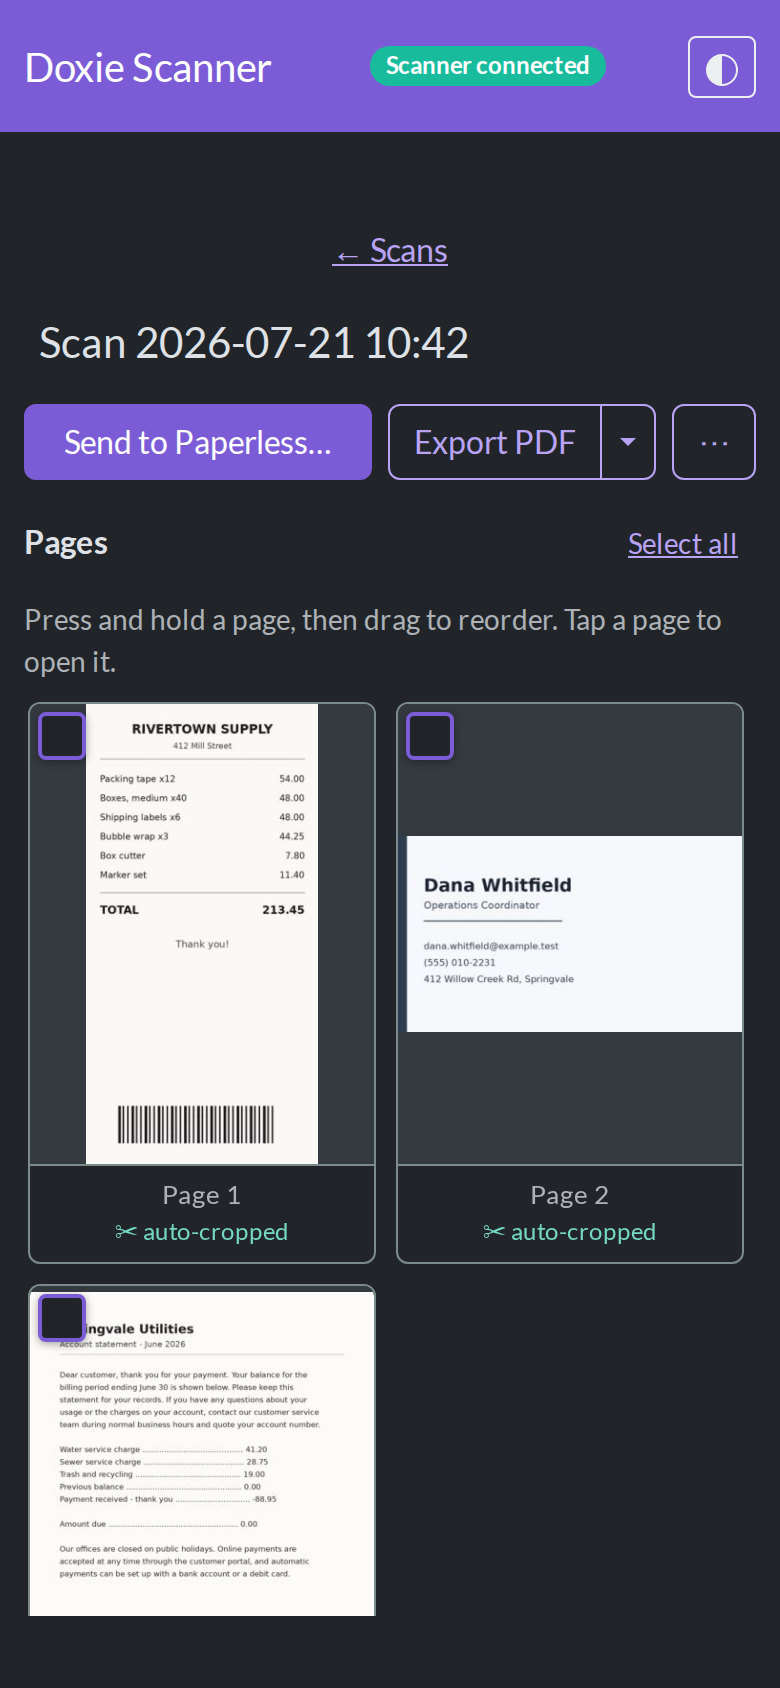
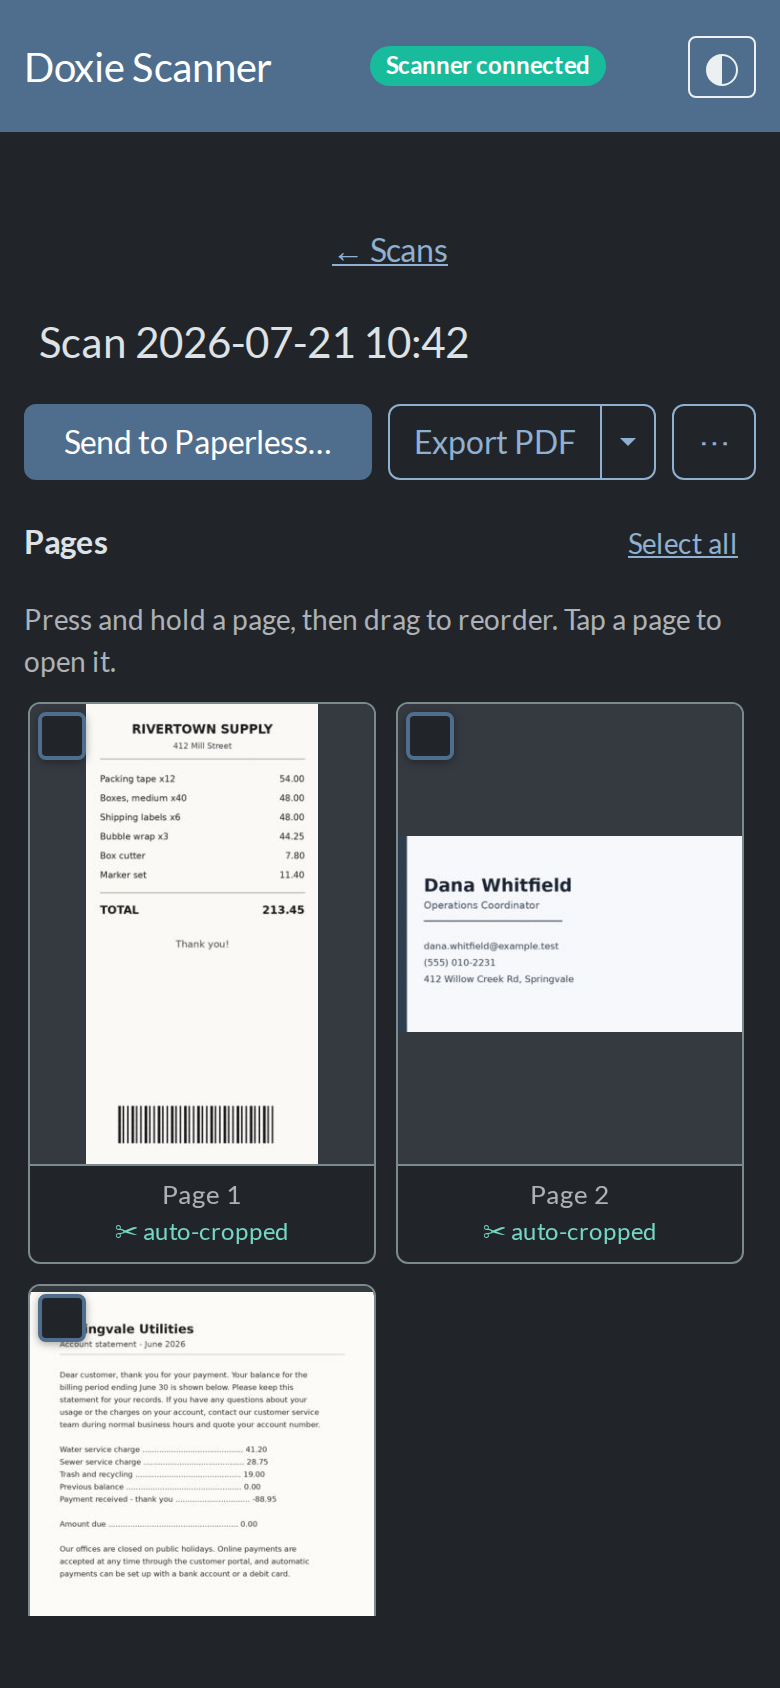
fix(doxie-scanner): drop the colour picker; stop the scan list flickering and highlighting
Two corrections to the interface changes from earlier today.

- Remove the colour schemes. Only Auto, Light and Dark were wanted, so the
  swatches, the four extra schemes and everything that referenced them (theme.js,
  the menu, the strings, the docs and the README screenshot) are gone. Dark mode
  keeps its own lighter accent, which it needs for contrast against the dark
  background; light mode is unchanged.
- Opening a scan flickered. selectJob bumped the image cache-buster on every
  open, so each thumbnail got a new address and was fetched and decoded again, and
  the whole list was rebuilt around the click. Now the highlight moves at once
  without rebuilding the list, and only reopening the scan that is already open
  (which means it was just changed) gets new addresses, so edits still show.
  Switching between scans reuses the browser's cached thumbnails. A click made
  while a slower earlier one is still loading is no longer overtaken by it.
- Remove the hover highlight on scan rows (Bootstrap's list-group default) and the
  tap flash on touch screens; the open scan keeps its highlight under the pointer.

Checked in Chrome: highlight timing, the list node surviving a click, identical
image addresses on revisit, new ones after a rotate, no colour change on hover,
rapid clicks, and the earlier flows, sort, export and page-delete scripts.

diff --git a/internal/web/static/style.css b/internal/web/static/style.css
@@ -629,54 +629,22 @@ body > main > .row > * {
   }
 }
 
-/* ---- Colour schemes ----
-   One accent colour drives the buttons, links, navbar, selection and switches.
-   "slate" is the original Flatly look; each scheme has a lighter accent for
-   dark mode, where a dark one would sink into the background. The mode itself
-   (light or dark) is Bootstrap's own data-bs-theme, set by theme.js. */
+/* ---- Accent colour ----
+   One accent drives the buttons, links, navbar, selection and switches. Light
+   mode keeps Flatly's slate; dark mode uses a lighter one, where the dark slate
+   would sink into the background. The mode itself (light or dark) is
+   Bootstrap's own data-bs-theme, set by theme.js. */
 :root,
-:root[data-scheme="slate"] {
+:root[data-bs-theme="light"] {
   --accent: #2c3e50; --accent-rgb: 44, 62, 80; --accent-hover: #253544; --accent-active: #233240;
   --accent-text: #2c3e50; --accent-text-rgb: 44, 62, 80;
 }
-:root[data-scheme="slate"][data-bs-theme="dark"] {
+:root[data-bs-theme="dark"] {
   --accent: #4f6d8c; --accent-rgb: 79, 109, 140; --accent-hover: #5b7a99; --accent-active: #46627f;
   --accent-text: #8fb0d1; --accent-text-rgb: 143, 176, 209;
 }
-:root[data-scheme="ocean"] {
-  --accent: #0b6fa4; --accent-rgb: 11, 111, 164; --accent-hover: #095f8d; --accent-active: #085378;
-  --accent-text: #0b6fa4; --accent-text-rgb: 11, 111, 164;
-}
-:root[data-scheme="ocean"][data-bs-theme="dark"] {
-  --accent: #2f7fb5; --accent-rgb: 47, 127, 181; --accent-hover: #3a8dc4; --accent-active: #286f9f;
-  --accent-text: #7fbde6; --accent-text-rgb: 127, 189, 230;
-}
-:root[data-scheme="forest"] {
-  --accent: #2e7d4f; --accent-rgb: 46, 125, 79; --accent-hover: #276b44; --accent-active: #225c3a;
-  --accent-text: #2e7d4f; --accent-text-rgb: 46, 125, 79;
-}
-:root[data-scheme="forest"][data-bs-theme="dark"] {
-  --accent: #3b8f5f; --accent-rgb: 59, 143, 95; --accent-hover: #46a06d; --accent-active: #33805a;
-  --accent-text: #7fcf9f; --accent-text-rgb: 127, 207, 159;
-}
-:root[data-scheme="violet"] {
-  --accent: #6f42c1; --accent-rgb: 111, 66, 193; --accent-hover: #5f38a5; --accent-active: #543192;
-  --accent-text: #6f42c1; --accent-text-rgb: 111, 66, 193;
-}
-:root[data-scheme="violet"][data-bs-theme="dark"] {
-  --accent: #7c5cd6; --accent-rgb: 124, 92, 214; --accent-hover: #8a6de0; --accent-active: #6d4fc4;
-  --accent-text: #b9a3f5; --accent-text-rgb: 185, 163, 245;
-}
-:root[data-scheme="rose"] {
-  --accent: #b83a62; --accent-rgb: 184, 58, 98; --accent-hover: #a03355; --accent-active: #8c2d4a;
-  --accent-text: #b83a62; --accent-text-rgb: 184, 58, 98;
-}
-:root[data-scheme="rose"][data-bs-theme="dark"] {
-  --accent: #c24d78; --accent-rgb: 194, 77, 120; --accent-hover: #d0608a; --accent-active: #ae4268;
-  --accent-text: #f19ab8; --accent-text-rgb: 241, 154, 184;
-}
 
-:root[data-scheme] {
+:root[data-bs-theme] {
   --bs-primary: var(--accent);
   --bs-primary-rgb: var(--accent-rgb);
   --bs-link-color: var(--accent-text);
@@ -728,29 +696,8 @@ body > main > .row > * {
 
 /* ---- Appearance menu ---- */
 .appearance-menu {
-  min-width: 16rem;
+  min-width: 15rem;
 }
-
-.swatch {
-  width: 1.75rem;
-  height: 1.75rem;
-  padding: 0;
-  border: 2px solid var(--bs-body-bg);
-  border-radius: 50%;
-  background: var(--sw);
-  cursor: pointer;
-}
-
-.swatch[aria-pressed="true"] {
-  outline: 2px solid var(--bs-body-color);
-  outline-offset: 2px;
-}
-
-.swatch[data-scheme="slate"] { --sw: #2c3e50; }
-.swatch[data-scheme="ocean"] { --sw: #0b6fa4; }
-.swatch[data-scheme="forest"] { --sw: #2e7d4f; }
-.swatch[data-scheme="violet"] { --sw: #6f42c1; }
-.swatch[data-scheme="rose"] { --sw: #b83a62; }
 
 /* ---- Search and date filter above the scan list ---- */
 .job-range {
@@ -812,4 +759,21 @@ body > main > .row > * {
 
 .confirm-items li:last-child {
   border-bottom: 0;
+}
+
+/* ---- Scan list: no hover highlight, no tap flash ----
+   The open scan is marked; other rows don't change colour under the pointer. */
+.list-group-item-action {
+  --bs-list-group-action-hover-bg: var(--bs-list-group-bg);
+  --bs-list-group-action-hover-color: var(--bs-list-group-color);
+  --bs-list-group-action-active-bg: var(--bs-list-group-bg);
+  --bs-list-group-action-active-color: var(--bs-list-group-color);
+  -webkit-tap-highlight-color: transparent;
+}
+
+.list-group-item-action.active {
+  --bs-list-group-action-hover-color: var(--bs-list-group-active-color);
+  --bs-list-group-action-hover-bg: var(--bs-list-group-active-bg);
+  --bs-list-group-action-active-color: var(--bs-list-group-active-color);
+  --bs-list-group-action-active-bg: var(--bs-list-group-active-bg);
 }

diff --git a/internal/web/static/app.js b/internal/web/static/app.js
@@ -374,6 +374,7 @@
       const isActive = job.id === state.selectedJobId;
       const item = document.createElement('button');
       item.type = 'button';
+      item.dataset.jobId = job.id;
       item.className = 'list-group-item list-group-item-action d-flex justify-content-between align-items-start';
       if (isActive) {
         item.classList.add('active');
@@ -420,6 +421,7 @@
     const isOpen = job.id === state.selectedJobId;
     const row = document.createElement('div');
     row.className = `list-group-item bulk-row${isOpen ? ' active' : ''}`;
+    row.dataset.jobId = job.id;
     const selectable = bulkSelectable(job);
     if (!selectable) row.title = I18N.t('bulk.runningTitle');
     const thumbs = Array.from({ length: Math.min(3, job.pageCount || 0) }, (_, i) =>
@@ -550,12 +552,34 @@
     if (state.bulkSelected.size === 0) setBulkMode(false);
   }
 
+  // Moves the highlight to a scan in the list without rebuilding the list, so
+  // it responds the instant a scan is clicked and nothing in the list flashes.
+  function markActive(jobId) {
+    document.querySelectorAll('#job-list [data-job-id]').forEach((node) => {
+      const on = node.dataset.jobId === jobId;
+      node.classList.toggle('active', on);
+      if (on) node.setAttribute('aria-current', 'true');
+      else node.removeAttribute('aria-current');
+      const meta = node.querySelector('.job-meta');
+      if (meta) meta.classList.toggle('text-muted', !on);
+    });
+  }
+
   async function selectJob(jobId) {
+    // Opening the scan that is already open means it was just changed (rotated,
+    // cropped, reordered...): give its images new URLs so none is served from
+    // the browser's cache. Switching to another scan keeps the same URLs, so
+    // thumbnails already seen come straight from the cache instead of reloading.
+    const changed = jobId === state.selectedJobId && !!state.selectedJob;
+    if (changed) state.renderNonce++;
     state.selectedJobId = jobId;
-    state.renderNonce++;
+    markActive(jobId);
     const res = await api(`/api/scans/${jobId}`);
-    state.selectedJob = await res.json();
-    renderJobList();
+    const job = await res.json();
+    // A later click may have moved on while this was loading: don't undo it.
+    if (state.selectedJobId !== jobId) return;
+    state.selectedJob = job;
+    if (changed) renderJobList();
     renderJobDetail();
     watchSent(jobId);
     // On a phone the scan opens in place of the list: start at its top.
@@ -1714,28 +1738,16 @@
     return div.innerHTML;
   }
 
-  // ---- Appearance (mode and colour scheme; see theme.js) ----
+  // ---- Appearance (light, dark or follow the system; see theme.js) ----
 
   function syncAppearance() {
     const theme = window.DoxieTheme;
     document.querySelectorAll('input[name="theme-mode"]').forEach((r) => { r.checked = r.value === theme.mode; });
-    document.querySelectorAll('.swatch').forEach((b) => {
-      const label = I18N.t(`appearance.scheme.${b.dataset.scheme}`);
-      b.title = label;
-      b.setAttribute('aria-label', label);
-      b.setAttribute('aria-pressed', String(b.dataset.scheme === theme.scheme));
-    });
   }
 
   document.querySelectorAll('input[name="theme-mode"]').forEach((r) => {
     r.addEventListener('change', () => {
       window.DoxieTheme.setMode(r.value);
-      syncAppearance();
-    });
-  });
-  document.querySelectorAll('.swatch').forEach((b) => {
-    b.addEventListener('click', () => {
-      window.DoxieTheme.setScheme(b.dataset.scheme);
       syncAppearance();
     });
   });

diff --git a/internal/web/static/index.html b/internal/web/static/index.html
@@ -20,21 +20,13 @@
         </button>
         <div class="dropdown-menu dropdown-menu-end p-3 appearance-menu">
           <div class="small text-body-secondary mb-1" data-i18n="appearance.mode">Mode</div>
-          <div class="btn-group w-100 mb-3" role="group" aria-label="Mode">
+          <div class="btn-group w-100" role="group" aria-label="Mode">
             <input type="radio" class="btn-check" name="theme-mode" id="mode-auto" value="auto" autocomplete="off">
             <label class="btn btn-sm btn-outline-secondary" for="mode-auto" data-i18n="appearance.auto">Auto</label>
             <input type="radio" class="btn-check" name="theme-mode" id="mode-light" value="light" autocomplete="off">
             <label class="btn btn-sm btn-outline-secondary" for="mode-light" data-i18n="appearance.light">Light</label>
             <input type="radio" class="btn-check" name="theme-mode" id="mode-dark" value="dark" autocomplete="off">
             <label class="btn btn-sm btn-outline-secondary" for="mode-dark" data-i18n="appearance.dark">Dark</label>
-          </div>
-          <div class="small text-body-secondary mb-1" data-i18n="appearance.colors">Colors</div>
-          <div id="scheme-swatches" class="d-flex gap-2" role="group" aria-label="Colors">
-            <button type="button" class="swatch" data-scheme="slate"></button>
-            <button type="button" class="swatch" data-scheme="ocean"></button>
-            <button type="button" class="swatch" data-scheme="forest"></button>
-            <button type="button" class="swatch" data-scheme="violet"></button>
-            <button type="button" class="swatch" data-scheme="rose"></button>
           </div>
           <div class="small text-body-secondary mt-3 mb-1" data-i18n="appearance.language">Language</div>
           <select id="lang-switcher" class="form-select form-select-sm" aria-label="Language">

diff --git a/internal/web/static/theme.js b/internal/web/static/theme.js
@@ -1,12 +1,8 @@
-// Colour mode and colour scheme. Loaded in <head>, before the page paints, so
-// the saved choice is in place at first paint and there is no flash of the
-// wrong theme. The UI that changes them lives in app.js.
-//
-// Mode:   auto (follow the system's light/dark setting), light, or dark.
-// Scheme: the accent colour (slate is the original look); see style.css.
+// Colour mode: auto (follow the system), light or dark. Loaded in <head>,
+// before the page paints, so the saved choice is in place at first paint and
+// there is no flash of the wrong theme. The UI that changes it lives in app.js.
 (() => {
   const MODES = ['auto', 'light', 'dark'];
-  const SCHEMES = ['slate', 'ocean', 'forest', 'violet', 'rose'];
   const root = document.documentElement;
   const system = window.matchMedia('(prefers-color-scheme: dark)');
 
@@ -26,12 +22,10 @@
   };
 
   let mode = read('doxie-mode', MODES, 'auto');
-  let scheme = read('doxie-scheme', SCHEMES, 'slate');
 
   function apply() {
     const dark = mode === 'dark' || (mode === 'auto' && system.matches);
     root.setAttribute('data-bs-theme', dark ? 'dark' : 'light');
-    root.setAttribute('data-scheme', scheme);
   }
 
   // In auto mode, follow the system as it changes (a sunset schedule, say).
@@ -42,19 +36,11 @@
 
   window.DoxieTheme = {
     MODES,
-    SCHEMES,
     get mode() { return mode; },
-    get scheme() { return scheme; },
     setMode(m) {
       if (!MODES.includes(m)) return;
       mode = m;
       write('doxie-mode', m);
-      apply();
-    },
-    setScheme(s) {
-      if (!SCHEMES.includes(s)) return;
-      scheme = s;
-      write('doxie-scheme', s);
       apply();
     },
   };

diff --git a/demo/screenshots.spec.js b/demo/screenshots.spec.js
@@ -60,11 +60,10 @@ test('phone', async ({ page }, info) => {
   await imagesLoaded(page);
   await shot(page, 'pages-phone');
 
-  // The same view in dark mode with another colour scheme (then back to the
-  // default look for the rest).
-  await page.evaluate(() => { window.DoxieTheme.setMode('dark'); window.DoxieTheme.setScheme('violet'); });
+  // The same view in dark mode (then back to light for the rest).
+  await page.evaluate(() => window.DoxieTheme.setMode('dark'));
   await shot(page, 'dark-phone');
-  await page.evaluate(() => { window.DoxieTheme.setMode('light'); window.DoxieTheme.setScheme('slate'); });
+  await page.evaluate(() => window.DoxieTheme.setMode('light'));
 
   await page.locator('#page-grid .page-thumbnail').nth(0).locator('.combine-check').tap();
   await page.locator('#page-grid .page-thumbnail').nth(1).locator('.combine-check').tap();

diff --git a/CHANGELOG.md b/CHANGELOG.md
@@ -9,12 +9,11 @@ like `v1.2.0`, and each one gets its own section below.
 
 ### Added
 
-- **Dark and light themes, and colour schemes.** A menu in the top bar sets the
-  mode (Auto follows the system's light or dark setting, or Light / Dark) and one
-  of five colour schemes (slate, the original look, ocean, forest, violet and
-  rose), and holds the language choice, which moved there to make room on a
-  phone. The choice is kept in the browser and applied before the page paints, so
-  there is no flash of the wrong theme.
+- **Dark and light themes.** A menu in the top bar sets the mode: Auto follows
+  the system's light or dark setting (and changes with it), or choose Light or
+  Dark. The language choice moved into the same menu, to make room on a phone.
+  The choice is kept in the browser and applied before the page paints, so there
+  is no flash of the wrong theme.
 - **Search and date filter for scans.** Type words to match a scan's name or date
   and narrow by today, the last 7 or 30 days, this year, or a range of dates.
   *Select all* in select mode ticks only the scans the filter shows.
@@ -33,6 +32,13 @@ like `v1.2.0`, and each one gets its own section below.
 - **Select mode shows what is in each scan.** Rows carry small previews of the
   first pages, and clicking a scan's name opens it beside the list, so you can
   look inside before ticking it for deletion.
+- **Opening a scan no longer flickers, and rows no longer light up on hover.** The
+  open scan's highlight now moves the instant it is clicked instead of after the
+  list was rebuilt, and a scan's thumbnails are reused from the browser's cache
+  when you switch between scans (they were being fetched again every time, because
+  each open gave them a new address). Only a scan you have just changed gets new
+  addresses. A click on another scan while one is still loading can no longer be
+  overtaken by the slower one.
 - **Renaming a scan with Enter now leaves the field** instead of looking as if it
   were still being edited.
 

diff --git a/README.md b/README.md
@@ -24,7 +24,7 @@ the scanner through the USB device nodes under `/dev/bus/usb`.
 <p align="center">
   <img src="docs/screenshots/selection-desktop.png" width="49%" alt="Desktop: a scan's pages, two ticked, with the export menu open">
   <img src="docs/screenshots/pages-phone.png" width="16%" alt="Phone: a scan's pages, trimmed and upright">
-  <img src="docs/screenshots/dark-phone.png" width="16%" alt="Phone: the same scan in dark mode with the violet colour scheme">
+  <img src="docs/screenshots/dark-phone.png" width="16%" alt="Phone: the same scan in dark mode">
   <img src="docs/screenshots/selection-phone.png" width="16%" alt="Phone: two pages ticked, with the export menu open">
 </p>
 
@@ -254,8 +254,8 @@ all (under about 520 pixels tall) falls back to an ordinary scrolling page.
   open scan the next one in the list is shown.
 - **Appearance and language**: the half-filled circle in the top bar opens a
   menu with the mode (*Auto* follows your system's light or dark setting,
-  or choose *Light* / *Dark*), five colour schemes (slate, ocean, forest,
-  violet and rose) and the language. Your choices are remembered in the browser.
+  or choose *Light* / *Dark*) and the language. Your choices are remembered in
+  the browser.
 - **Messages** (sent, trimmed, restored, deleted) appear as short toasts at
   the top, not pop-up boxes.
 
